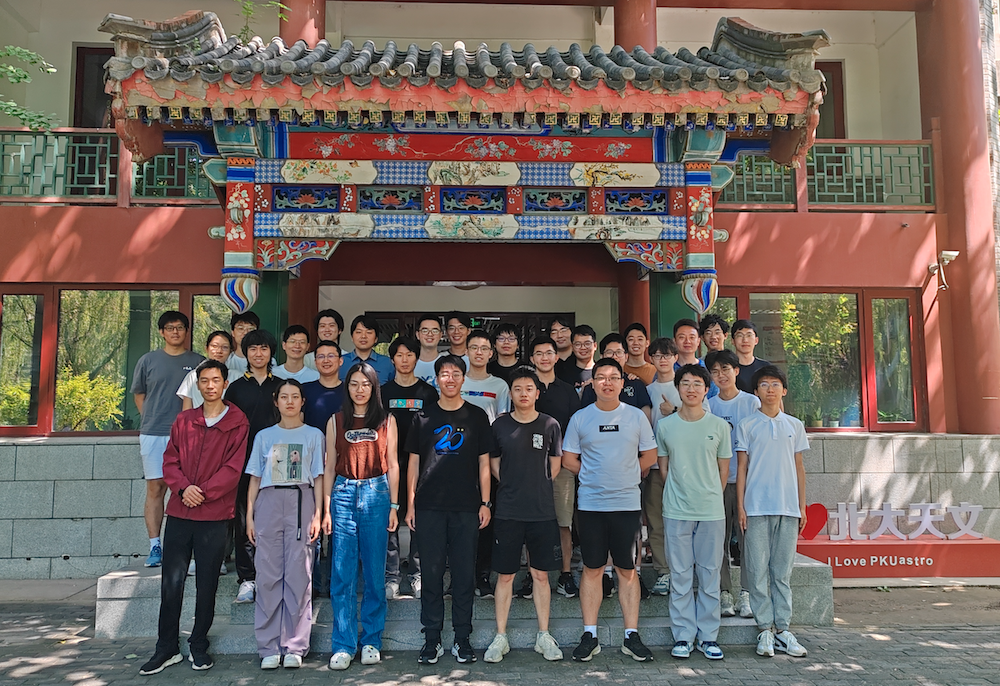
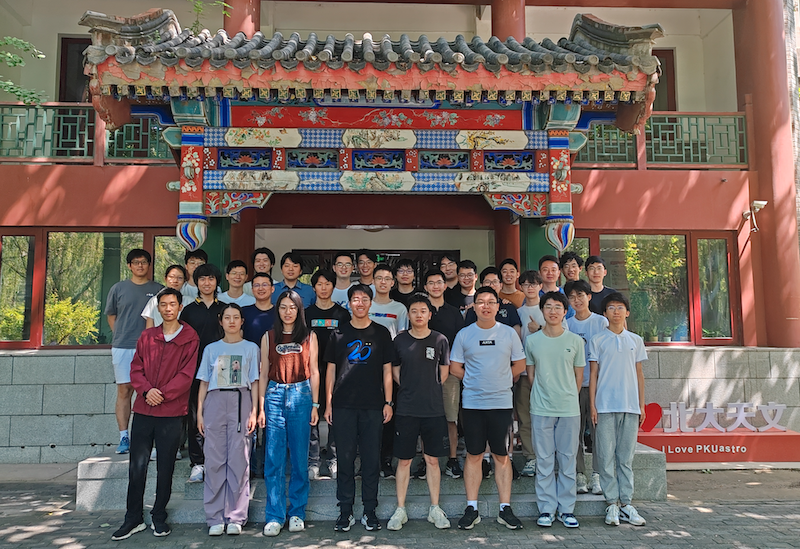
add group photo 2025 12 21

Changed region(s): [[0.4375, 0.6193, 0.4688, 0.6503], [0.25, 0.2787, 0.2812, 0.3097]]

diff --git a/about.md b/about.md
@@ -55,6 +55,11 @@ Shao](https://friendshao.github.io/)!
 
 
 <figure>   
+<img src="/assets/group/Group_meeting_Dec21_2025.jpg" style="width:100%">                 
+<figcaption><font color="grey"><b>Group meeting on December 21, 2025.</b></font></figcaption>
+</figure>
+
+<figure>   
 <img src="/assets/group/Group_meeting_Jun1_2025.png" style="width:100%">                 
 <figcaption><font color="grey"><b>Group meeting on June 1, 2025.</b></font></figcaption>
 </figure>
